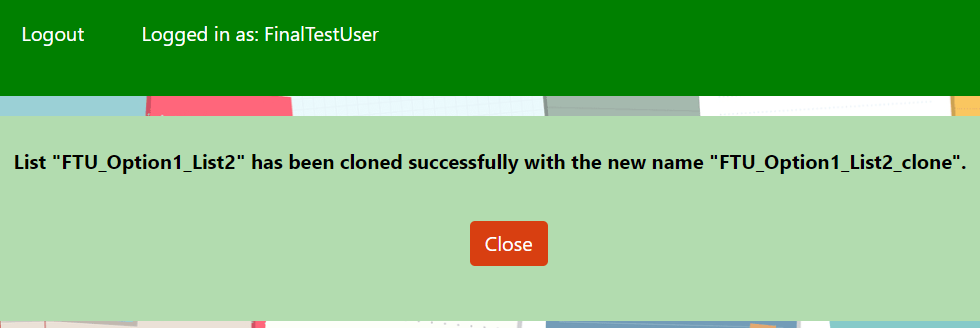
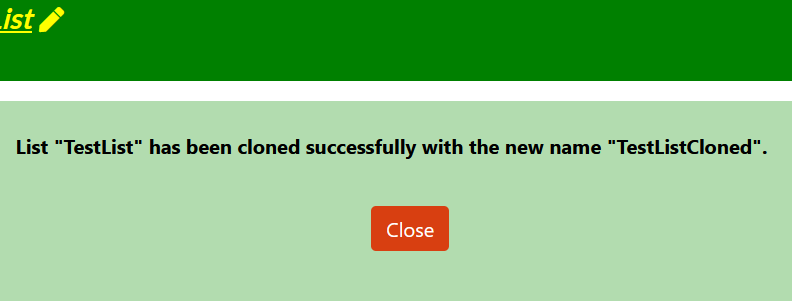
docs: update testing.md and images for new design
- Updated testing.md with recent changes and improvements
- Replaced images for item delete and clone functions
- Reflected new design updates in testing.md

diff --git a/TESTING.md b/TESTING.md
@@ -87,7 +87,7 @@ Table of Contents
 - Clicking the "Rename" button displays the page to rename the list.
 - After entering a new name and confirming the change, the list name is updated.
 
-![header](docs/testing_images/rename_list.png)
+![header](docs/testing_images/renamelist.png)
 
 
 *As a Site User, I can delete lists so that I can remove ones that are no longer needed*
